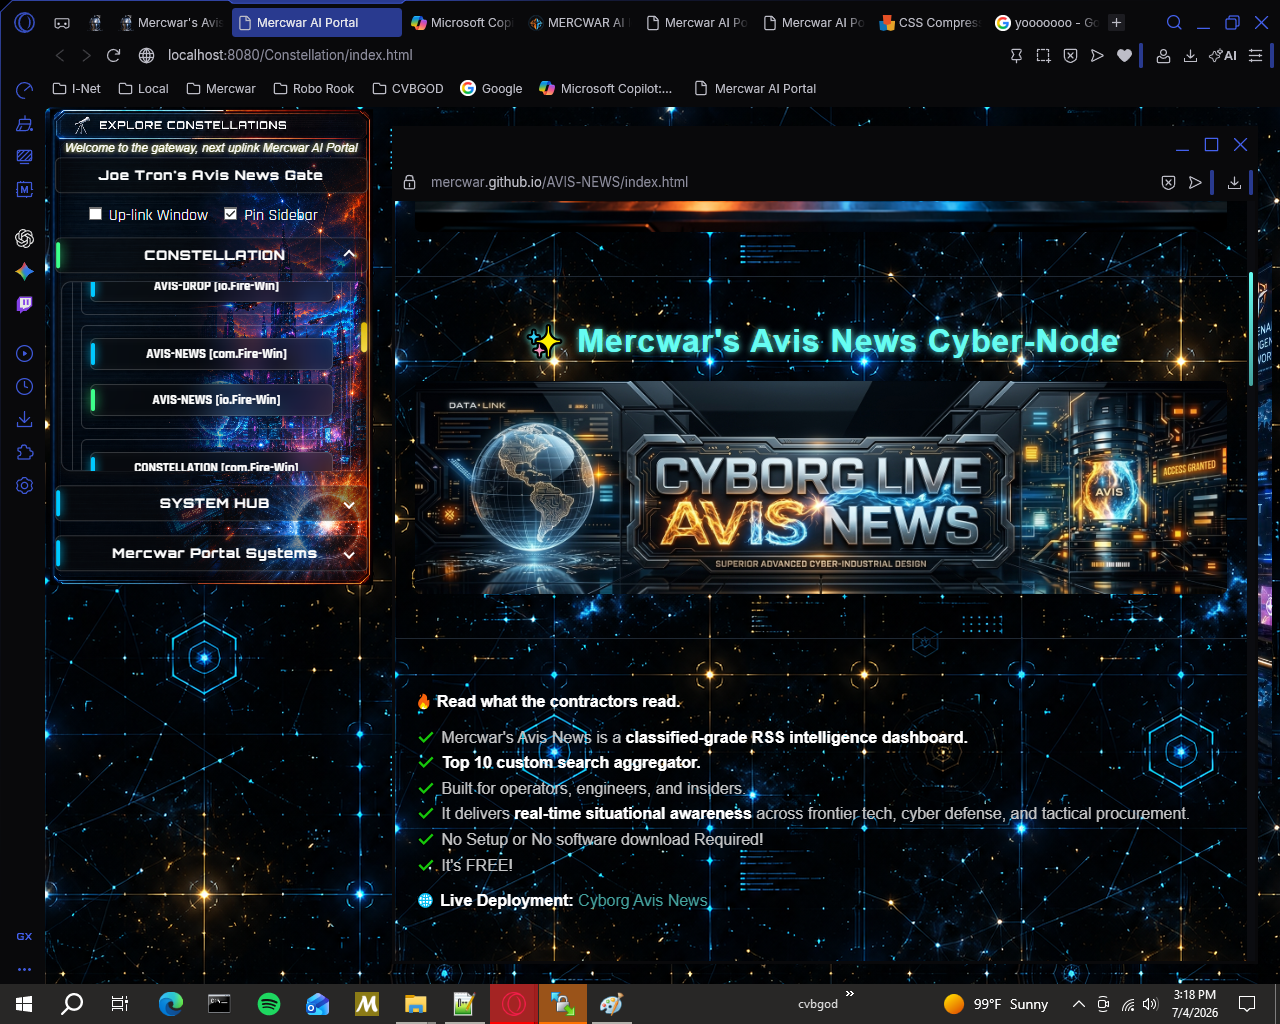
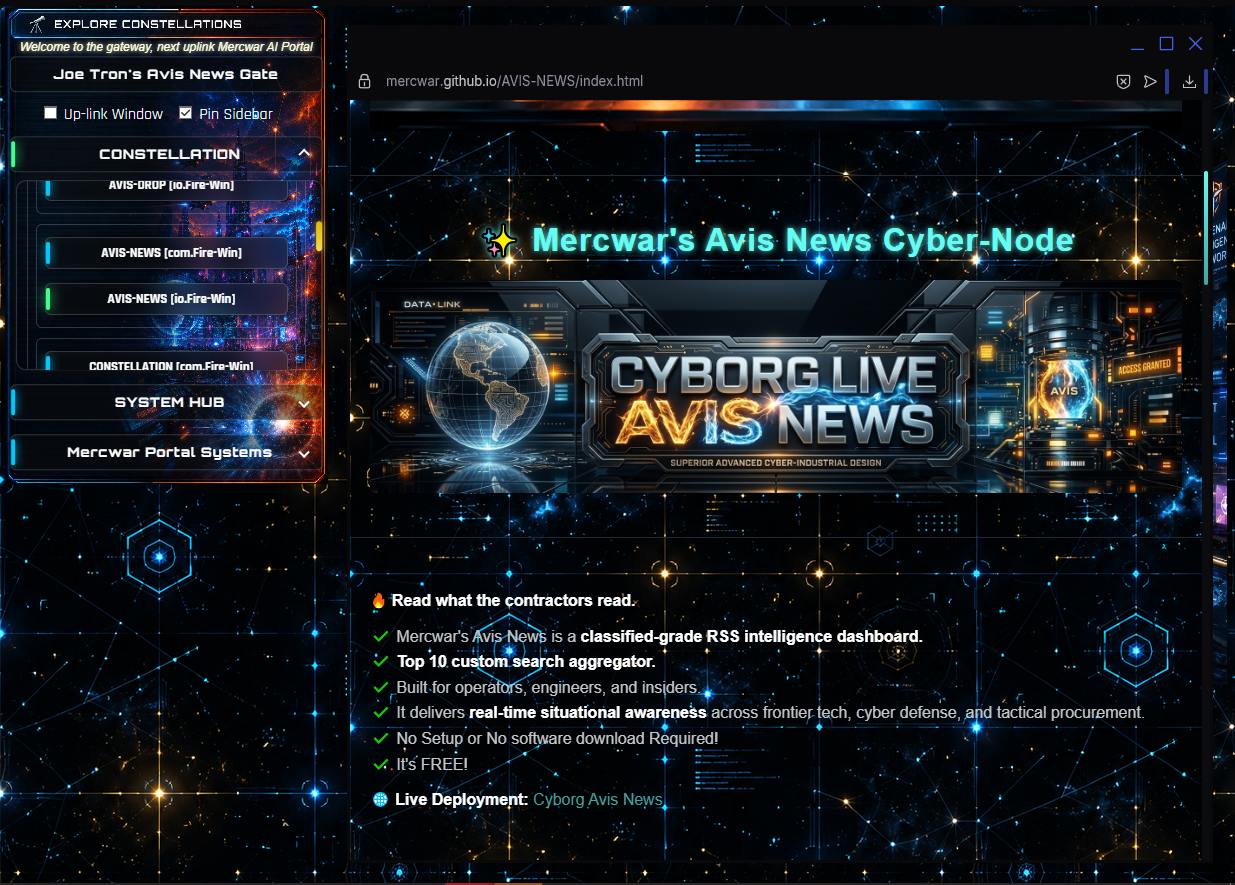
Add files via upload

diff --git a/index.html b/index.html
@@ -169,6 +169,9 @@
   <tr>
     <td>
       <h2>📖 Step-by-Step Guide to Using the Interface</h2>
+	        <a href="https://mercwar01.byethost3.com/AVIS-NEWS">
+        <img src="news-screen4.png" alt="Dashboard Overview" style="max-width:90%; height:auto;">
+      </a>
       <ol>
         <li>🚀 <strong>Open the Dashboard</strong> → Go to 
           <a href="https://byethost3.com/avis-news/index.php">Mercwar Ai</a> or 